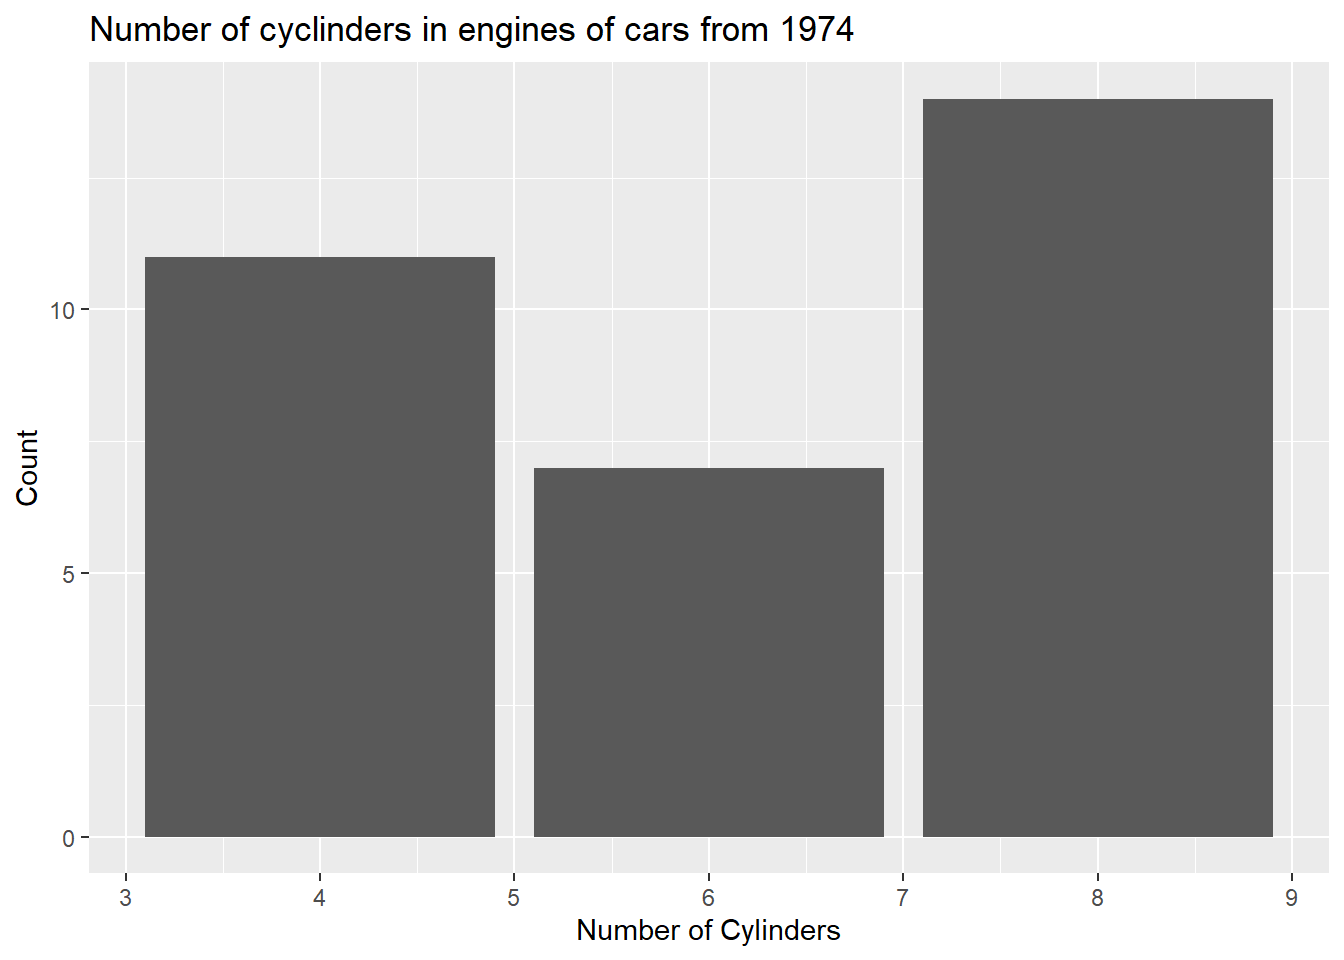
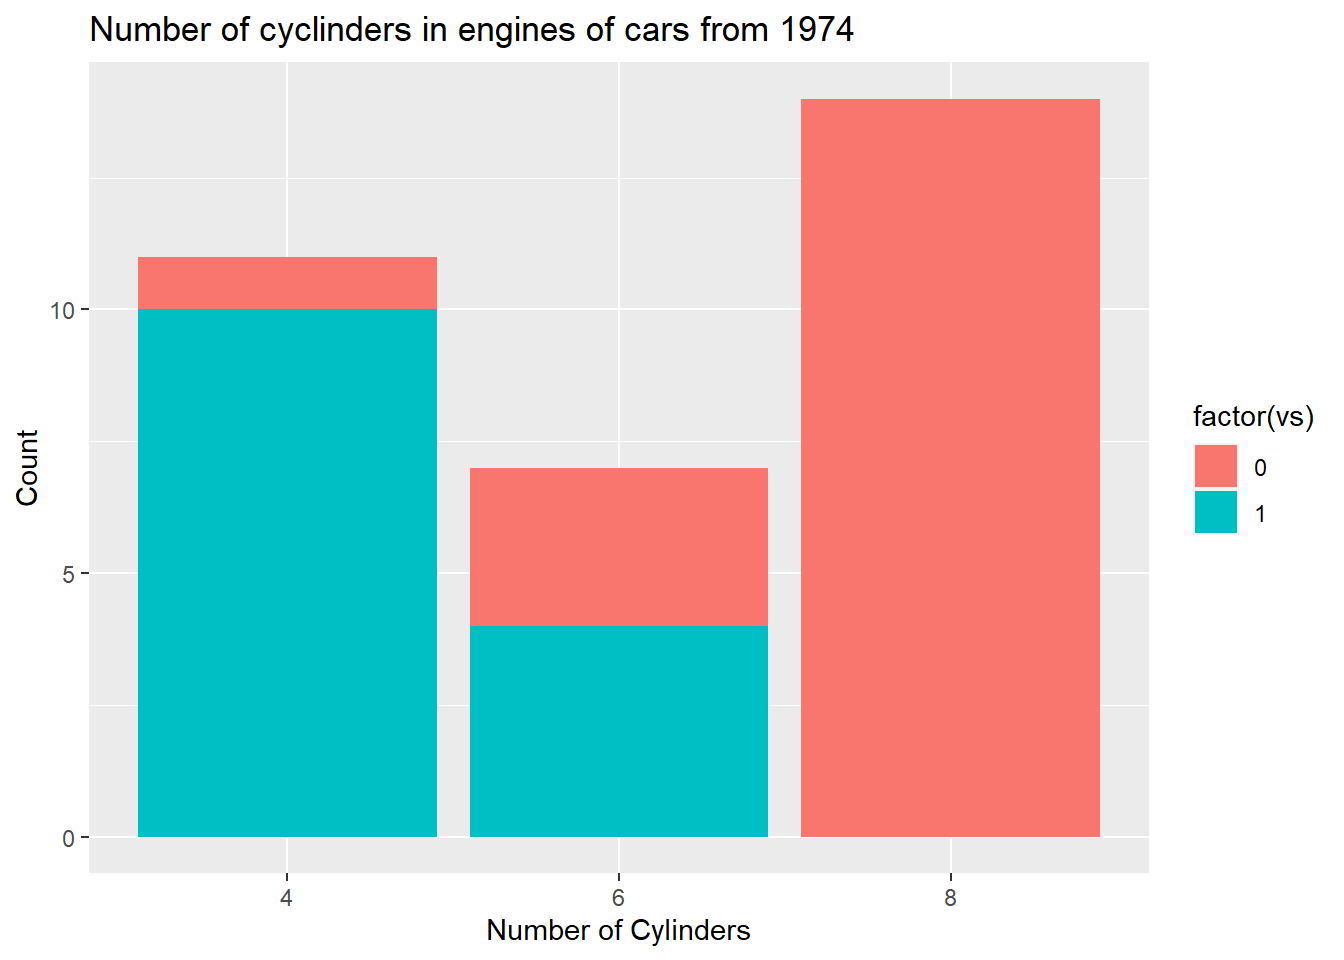
changed second plot

diff --git a/public/2021/05/18/a01-ggplot2/index.html b/public/2021/05/18/a01-ggplot2/index.html
@@ -22,6 +22,11 @@
 
 
 
+
+<link href='//cdnjs.cloudflare.com/ajax/libs/highlight.js/9.12.0/styles/github.min.css' rel='stylesheet' type='text/css' />
+
+
+
 <link rel="stylesheet" href="/css/fonts.css" media="all">
 <link rel="stylesheet" href="/css/main.css" media="all">
 
@@ -57,7 +62,7 @@
 
   <article class="article">
     
-    <span class="article-duration">0 min read</span>
+    <span class="article-duration">4 min read</span>
     
 
     <h1 class="article-title">A01: GGPLOT2</h1>
@@ -71,6 +76,63 @@
 <script src="/2021/05/18/a01-ggplot2/index_files/header-attrs/header-attrs.js"></script>
 
 
+<div id="this-post-contains-two-data-visualizations-and-are-as-follows" class="section level2">
+<h2>This post contains two data visualizations, and are as follows</h2>
+<ul>
+<li>one Numerical visualization</li>
+<li>one Categorical data visualization</li>
+</ul>
+</div>
+<div id="the-following-data-was-used-to-create-the-data-visualizations-that-follow" class="section level2">
+<h2>The following data was used to create the data visualizations that follow</h2>
+<pre><code>##                      mpg cyl  disp  hp drat    wt  qsec vs am gear carb
+## Mazda RX4           21.0   6 160.0 110 3.90 2.620 16.46  0  1    4    4
+## Mazda RX4 Wag       21.0   6 160.0 110 3.90 2.875 17.02  0  1    4    4
+## Datsun 710          22.8   4 108.0  93 3.85 2.320 18.61  1  1    4    1
+## Hornet 4 Drive      21.4   6 258.0 110 3.08 3.215 19.44  1  0    3    1
+## Hornet Sportabout   18.7   8 360.0 175 3.15 3.440 17.02  0  0    3    2
+## Valiant             18.1   6 225.0 105 2.76 3.460 20.22  1  0    3    1
+## Duster 360          14.3   8 360.0 245 3.21 3.570 15.84  0  0    3    4
+## Merc 240D           24.4   4 146.7  62 3.69 3.190 20.00  1  0    4    2
+## Merc 230            22.8   4 140.8  95 3.92 3.150 22.90  1  0    4    2
+## Merc 280            19.2   6 167.6 123 3.92 3.440 18.30  1  0    4    4
+## Merc 280C           17.8   6 167.6 123 3.92 3.440 18.90  1  0    4    4
+## Merc 450SE          16.4   8 275.8 180 3.07 4.070 17.40  0  0    3    3
+## Merc 450SL          17.3   8 275.8 180 3.07 3.730 17.60  0  0    3    3
+## Merc 450SLC         15.2   8 275.8 180 3.07 3.780 18.00  0  0    3    3
+## Cadillac Fleetwood  10.4   8 472.0 205 2.93 5.250 17.98  0  0    3    4
+## Lincoln Continental 10.4   8 460.0 215 3.00 5.424 17.82  0  0    3    4
+## Chrysler Imperial   14.7   8 440.0 230 3.23 5.345 17.42  0  0    3    4
+## Fiat 128            32.4   4  78.7  66 4.08 2.200 19.47  1  1    4    1
+## Honda Civic         30.4   4  75.7  52 4.93 1.615 18.52  1  1    4    2
+## Toyota Corolla      33.9   4  71.1  65 4.22 1.835 19.90  1  1    4    1
+## Toyota Corona       21.5   4 120.1  97 3.70 2.465 20.01  1  0    3    1
+## Dodge Challenger    15.5   8 318.0 150 2.76 3.520 16.87  0  0    3    2
+## AMC Javelin         15.2   8 304.0 150 3.15 3.435 17.30  0  0    3    2
+## Camaro Z28          13.3   8 350.0 245 3.73 3.840 15.41  0  0    3    4
+## Pontiac Firebird    19.2   8 400.0 175 3.08 3.845 17.05  0  0    3    2
+## Fiat X1-9           27.3   4  79.0  66 4.08 1.935 18.90  1  1    4    1
+## Porsche 914-2       26.0   4 120.3  91 4.43 2.140 16.70  0  1    5    2
+## Lotus Europa        30.4   4  95.1 113 3.77 1.513 16.90  1  1    5    2
+## Ford Pantera L      15.8   8 351.0 264 4.22 3.170 14.50  0  1    5    4
+## Ferrari Dino        19.7   6 145.0 175 3.62 2.770 15.50  0  1    5    6
+## Maserati Bora       15.0   8 301.0 335 3.54 3.570 14.60  0  1    5    8
+## Volvo 142E          21.4   4 121.0 109 4.11 2.780 18.60  1  1    4    2</code></pre>
+</div>
+<div id="the-first-data-visualization-concerns-ata-was-extracted-from-the-1974-motor-trend-us-magazine-and-relates-the-weight-of-vehicles-to-the-miles-per-gallon." class="section level2">
+<h2>The first Data visualization concerns ata was extracted from the 1974 Motor Trend US magazine and relates the weight of vehicles to the miles per gallon.</h2>
+<pre class="r"><code>library(ggplot2)
+ggplot(mtcars, aes(x = wt, y= mpg),colour(cyl)) +
+  geom_point() + labs(title = &quot;Miles per Gallon vs. weight of vehicles from 1974&quot;, x = &quot;weight(1000lb)&quot;, y = &quot;Miles per Gallon&quot;)</code></pre>
+<p><img src="/2021/05/18/a01-ggplot2/index_files/figure-html/unnamed-chunk-2-1.png" width="672" /></p>
+</div>
+<div id="the-second-data-visualization-is-categorical-and-defines-the-number-of-cylinders-in-the-engines-of-the-vehicles-of-1974" class="section level2">
+<h2>The second data visualization is categorical and defines the number of cylinders in the engines of the vehicles of 1974</h2>
+<p><img src="/2021/05/18/a01-ggplot2/index_files/figure-html/unnamed-chunk-3-1.png" width="672" /></p>
+<div id="from-the-first-data-plot-it-can-be-seen-that-as-mass-increased-the-miles-per-gallon-of-the-vehicle-decreeased.-from-the-second-plot-it-can-be-seen-that-the-most-popular-category-of-engine-cylinders-is-an-8-cylinder.-during-this-blog-post-i-found-it-exciting-that-my-original-thought-about-how-the-data-would-look-concerning-the-distribution-of-weight-and-miles-per-gallon-was-correct.-however-i-was-suprrised-to-find-out-that-the-most-common-engine-cylinder-number-was-not-a-6-cylinder-beacuse-this-is-used-for-both-trucks-and-passenger-vehicles.-during-this-post-i-had-some-troubles-originionally-getting-the-new-post-to-upload-my-data-to-the-website-but-i-restarted-rstudio-and-reinstalled-some-packages-and-everything-sorted-itself-out." class="section level4">
+<h4>From the first data plot it can be seen that as mass increased, the miles per gallon of the vehicle decreeased. From the second plot it can be seen that the most popular category of “engine cylinders” is an 8 cylinder. During this blog post I found it exciting that my original thought about how the data would look concerning the distribution of weight and miles per gallon was correct. However I was suprrised to find out that the most common engine cylinder number was not a 6 cylinder beacuse this is used for both trucks and passenger vehicles. During this post I had some troubles originionally getting the new post to upload my data to the website but I restarted Rstudio and reinstalled some packages and everything sorted itself out.</h4>
+</div>
+</div>
 
     </div>
   </article>
@@ -93,6 +155,18 @@
 
     </div>
     
+
+
+
+<script src="//cdnjs.cloudflare.com/ajax/libs/highlight.js/9.12.0/highlight.min.js"></script>
+
+
+
+<script src="//cdnjs.cloudflare.com/ajax/libs/highlight.js/9.12.0/languages/r.min.js"></script>
+<script src="//cdnjs.cloudflare.com/ajax/libs/highlight.js/9.12.0/languages/yaml.min.js"></script>
+<script>hljs.configure({languages: []}); hljs.initHighlightingOnLoad();</script>
+
+
 
     
 

diff --git a/content/post/2021-05-18-a01-ggplot2/index.html b/content/post/2021-05-18-a01-ggplot2/index.html
@@ -54,17 +54,20 @@ tags: []
 ## Maserati Bora       15.0   8 301.0 335 3.54 3.570 14.60  0  1    5    8
 ## Volvo 142E          21.4   4 121.0 109 4.11 2.780 18.60  1  1    4    2</code></pre>
 </div>
-<div id="the-first-data-visualization-concerns-ata-was-extracted-from-the-1974-motor-trend-us-magazine-and-relates-the-weight-of-vehicles-to-the-miles-per-gallon." class="section level2">
-<h2>The first Data visualization concerns ata was extracted from the 1974 Motor Trend US magazine and relates the weight of vehicles to the miles per gallon.</h2>
+<div id="the-first-data-visualization-concerns-data-that-was-extracted-from-the-1974-motor-trend-us-magazine-and-relates-the-weight-of-vehicles-to-the-miles-per-gallon." class="section level2">
+<h2>The first Data visualization concerns data that was extracted from the 1974 Motor Trend US magazine and relates the weight of vehicles to the miles per gallon.</h2>
 <pre class="r"><code>library(ggplot2)
 ggplot(mtcars, aes(x = wt, y= mpg),colour(cyl)) +
   geom_point() + labs(title = &quot;Miles per Gallon vs. weight of vehicles from 1974&quot;, x = &quot;weight(1000lb)&quot;, y = &quot;Miles per Gallon&quot;)</code></pre>
 <p><img src="{{< blogdown/postref >}}index_files/figure-html/unnamed-chunk-2-1.png" width="672" /></p>
 </div>
-<div id="the-second-data-visualization-is-categorical-and-defines-the-number-of-cylinders-in-the-engines-of-the-vehicles-of-1974" class="section level2">
-<h2>The second data visualization is categorical and defines the number of cylinders in the engines of the vehicles of 1974</h2>
+<div id="the-second-data-visualization-is-categorical-and-defines-the-number-of-cylinders-in-the-engines-of-the-vehicles-of-1974-as-well-as-their-shapes." class="section level2">
+<h2>The second data visualization is categorical and defines the number of cylinders in the engines of the vehicles of 1974, as well as their shapes.</h2>
 <p><img src="{{< blogdown/postref >}}index_files/figure-html/unnamed-chunk-3-1.png" width="672" /></p>
-<div id="from-the-first-data-plot-it-can-be-seen-that-as-mass-increased-the-miles-per-gallon-of-the-vehicle-decreeased.-from-the-second-plot-it-can-be-seen-that-the-most-popular-category-of-engine-cylinders-is-an-8-cylinder.-during-this-blog-post-i-found-it-exciting-that-my-original-thought-about-how-the-data-would-look-concerning-the-distribution-of-weight-and-miles-per-gallon-was-correct.-however-i-was-suprrised-to-find-out-that-the-most-common-engine-cylinder-number-was-not-a-6-cylinder-beacuse-this-is-used-for-both-trucks-and-passenger-vehicles.-during-this-post-i-had-some-troubles-originionally-getting-the-new-post-to-upload-my-data-to-the-website-but-i-restarted-rstudio-and-reinstalled-some-packages-and-everything-sorted-itself-out." class="section level4">
-<h4>From the first data plot it can be seen that as mass increased, the miles per gallon of the vehicle decreeased. From the second plot it can be seen that the most popular category of “engine cylinders” is an 8 cylinder. During this blog post I found it exciting that my original thought about how the data would look concerning the distribution of weight and miles per gallon was correct. However I was suprrised to find out that the most common engine cylinder number was not a 6 cylinder beacuse this is used for both trucks and passenger vehicles. During this post I had some troubles originionally getting the new post to upload my data to the website but I restarted Rstudio and reinstalled some packages and everything sorted itself out.</h4>
+<div id="in-this-data-plot-the-number-of-cyclinders-and-their-shapes-have-been-displayed-in-his-case-the-red-corrisponds-to-v-shaped-engines-and-blue-corrisponds-to-straight-shaped-engines." class="section level3">
+<h3>In this data plot the number of cyclinders and their shapes have been displayed, in his case the red corrisponds to v shaped engines, and blue corrisponds to straight shaped engines.</h3>
+<div id="from-the-first-data-plot-it-can-be-seen-that-as-mass-increased-the-miles-per-gallon-of-the-vehicle-decreeased.-from-the-second-plot-it-can-be-seen-that-the-most-popular-category-of-engine-cylinders-is-an-8-cylinder-and-as-the-number-of-cylinders-increases-the-shape-is-more-often-v-shaped.-during-this-blog-post-i-found-it-exciting-that-my-original-thought-about-how-the-data-would-look-concerning-the-distribution-of-weight-and-miles-per-gallon-was-correct.-however-i-was-suprrised-to-find-out-that-the-most-common-engine-cylinder-number-was-not-a-6-cylinder-beacuse-this-is-used-for-both-trucks-and-passenger-vehicles.-during-this-post-i-had-some-troubles-originionally-getting-the-new-post-to-upload-my-data-to-the-website-but-i-restarted-rstudio-and-reinstalled-some-packages-and-everything-sorted-itself-out." class="section level4">
+<h4>From the first data plot it can be seen that as mass increased, the miles per gallon of the vehicle decreeased. From the second plot it can be seen that the most popular category of “engine cylinders” is an 8 cylinder, and as the number of cylinders increases, the shape is more often v shaped. During this blog post I found it exciting that my original thought about how the data would look concerning the distribution of weight and miles per gallon was correct. However I was suprrised to find out that the most common engine cylinder number was not a 6 cylinder beacuse this is used for both trucks and passenger vehicles. During this post I had some troubles originionally getting the new post to upload my data to the website but I restarted Rstudio and reinstalled some packages and everything sorted itself out.</h4>
+</div>
 </div>
 </div>

diff --git a/public/categories/ggplot2/index.html b/public/categories/ggplot2/index.html
@@ -71,6 +71,13 @@
       </span>
     </article>
     
+    <article class="archive-item">
+      <a href="/2021/05/18/a01-ggplot2/" class="archive-item-link">A01: GGPLOT2</a>
+      <span class="archive-item-date">
+        2021-05-18
+      </span>
+    </article>
+    
     
   </div>
 
